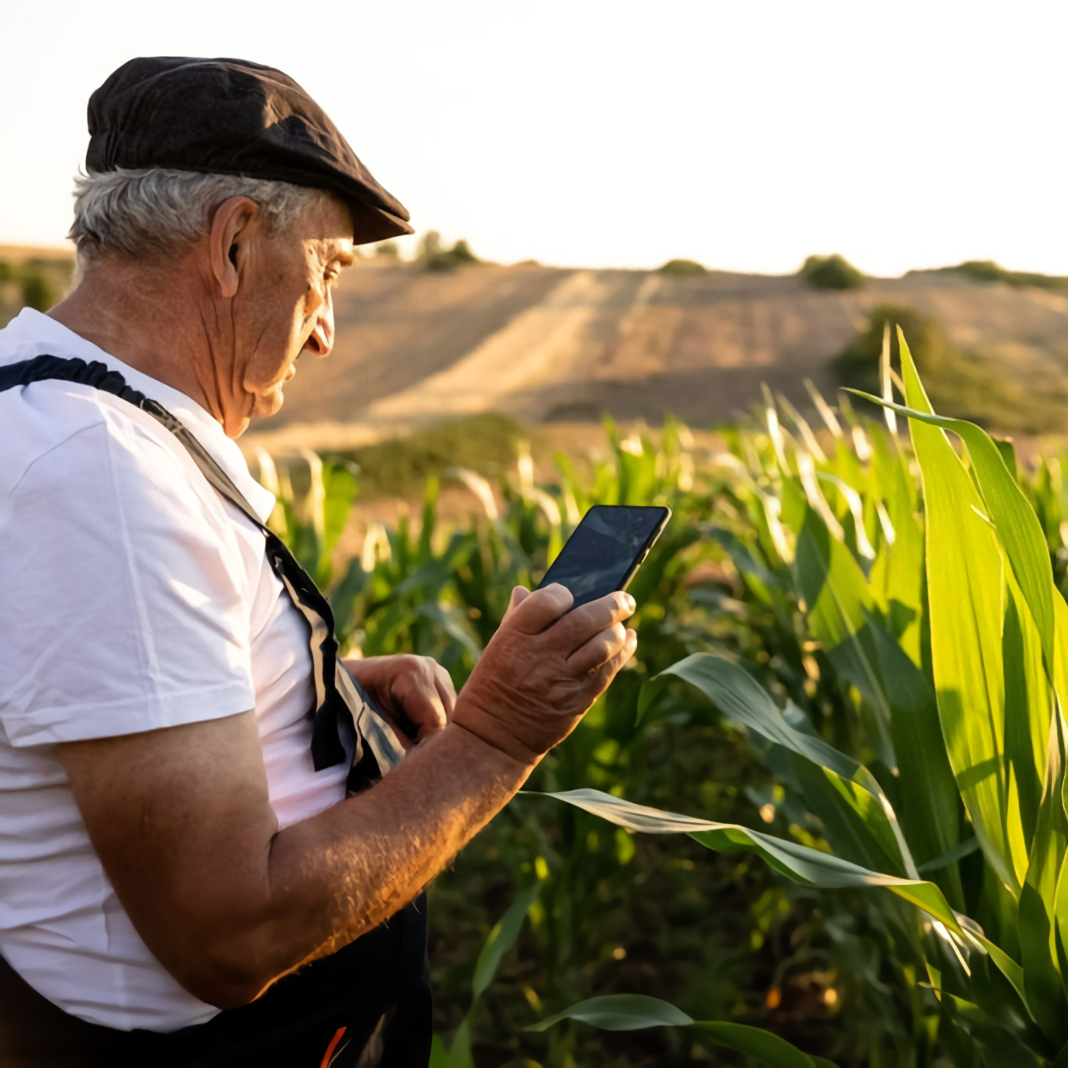
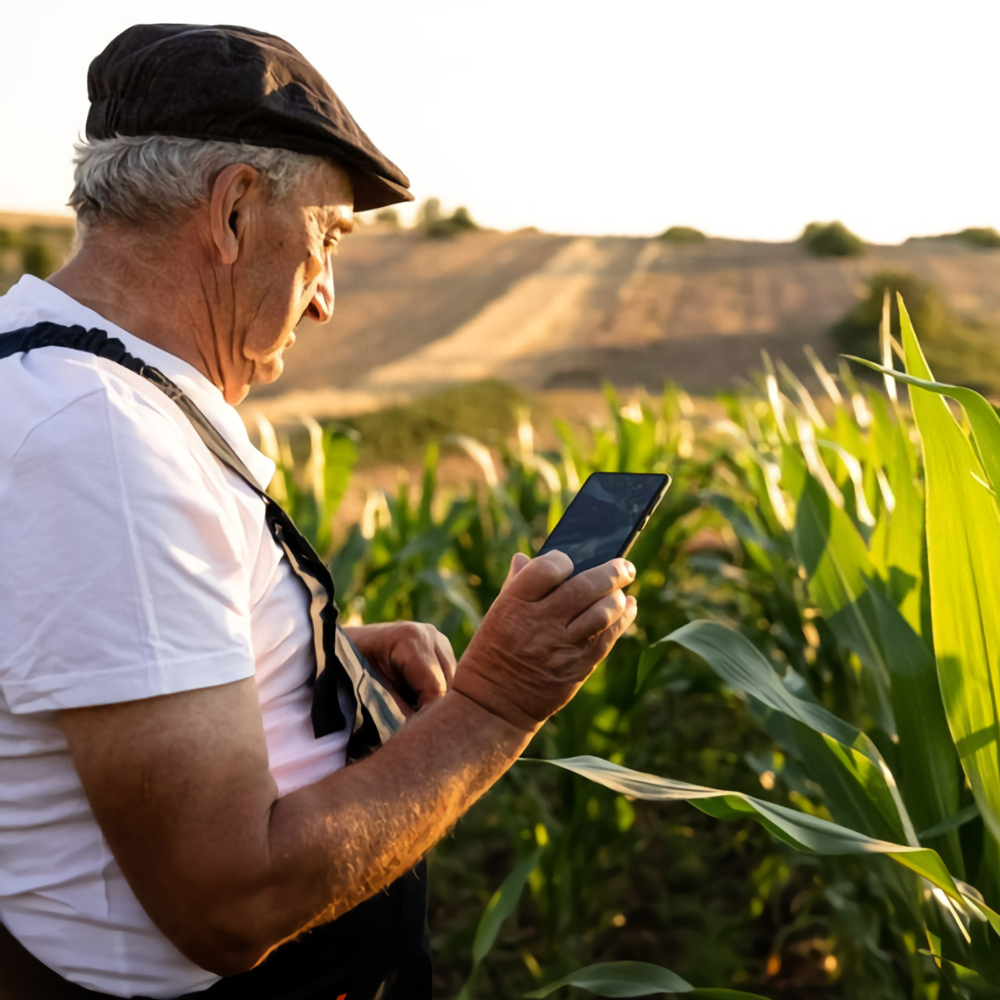
add and resize images, fix some components

diff --git a/index.html b/index.html
@@ -30,10 +30,10 @@
             <a class="nav-link active" aria-current="page" href="#home">Home</a>
           </li>
           <li class="nav-item">
-            <a class="nav-link" href="#">Mission</a>
+            <a class="nav-link" href="#mission">Mission</a>
           </li>
           <li class="nav-item dropdown">
-            <a class="nav-link dropdown-toggle" href="#" id="navbarDropdown" role="button" data-bs-toggle="dropdown" aria-expanded="false">
+            <a class="nav-link dropdown-toggle" href="#services" id="navbarDropdown" role="button" data-bs-toggle="dropdown" aria-expanded="false">
               Services
             </a>
             <ul class="dropdown-menu" aria-labelledby="navbarDropdown">
@@ -42,7 +42,7 @@
             </ul>
           </li>
           <li class="nav-item">
-            <a class="nav-link" href="#">Gallery</a>
+            <a class="nav-link" href="#gallery">Gallery</a>
           </li>
         </ul>
       </div>
@@ -57,7 +57,7 @@
         <div class="col-md-12">
           <div class="jumbotron-content text-white animatedFadeInUp fadeInUp">
             <h2 class="fw-bold">Lorem ipsum dolor sit amet.</h2>
-            <p>Lorem ipsum dolor sit amet consectetur adipisicing elit. Provident cum nisi impedit, est dignissimos voluptate nihil illo repellendus incidunt voluptates, quae optio nulla. Porro ad libero et, quia illum dolore perspiciatis inventore quo nam ducimus. Odio totam similique quidem voluptatum.</p>
+            <p>Lorem ipsum, dolor sit amet consectetur adipisicing elit. Incidunt atque voluptate, odio minus fugit modi at architecto unde totam nam, necessitatibus, corporis reiciendis. Omnis commodi, in laborum nemo ullam facilis?</p>
           </div>
         </div>
       </div>
@@ -84,7 +84,7 @@
         <div class="col-md-4">
           <div class="mission-info mx-auto text-left">
             <h4 class="fw-bold">Lorem ipsum dolor sit amet.</h4>
-            <p>Lorem ipsum, dolor sit amet consectetur adipisicing elit. Adipisci dicta id quaerat libero nemo iste illo tempore repellendus dolorem exercitationem animi rerum aliquam, numquam esse, velit debitis ab, amet dignissimos. Aut ab quam illo id quidem iusto perferendis, voluptates alias reprehenderit non commodi suscipit voluptate veniam deserunt corrupti libero provident eos facilis nobis magnam molestias consequatur! Sit cumque iusto repellendus nisi expedita quod quos quis ab. Praesentium error suscipit aliquam.</p>
+            <p>Lorem ipsum dolor sit amet consectetur adipisicing elit. Sapiente expedita quidem pariatur fuga, obcaecati nostrum! Minus repellendus error totam, recusandae sequi nostrum voluptates. Maiores fuga cumque reprehenderit odio quaerat deserunt tempore magnam quisquam voluptatibus. At doloremque ipsam repudiandae eos placeat quidem dolores mollitia corrupti nostrum soluta nemo illum, consequatur doloribus magni accusamus sapiente, nulla vitae voluptates eligendi! Dolorum aperiam veniam doloribus quasi voluptatem quaerat id alias, adipisci quas animi porro!</p>
           </div>
         </div>
       </div>
@@ -93,7 +93,7 @@
   <!-- Mission End -->
 
   <!-- Services Section Begin -->
-  <section class="services">
+  <section class="services" id="services">
     <div class="container">
       <div class="row">
         <div class="col-md-12">
@@ -104,19 +104,31 @@
       </div>
       <div class="row justify-content-center mt-6">
         <div class="col-md-4">
-          <div class="card">
-            <img src="img/recom.jpg" class="card-img-top" alt="...">
+          <div class="card bg-dark">
+            <img src="img/recom.jpg" class="card-img-top" alt="Farmer analyzes his land">
             <div class="card-body">
-              <p class="card-text">Some quick example text to build on the card title and make up the bulk of the card's content.</p>
+              <p class="card-text">Lorem ipsum dolor sit amet consectetur, adipisicing elit. Fugiat, placeat!</p>
             </div>
+            <a href="#">
+              <div class="card-info">
+                <h5 class="fw-bold">Crop Recommendation</h5>
+                <p class="card-text">Lorem ipsum dolor sit amet consectetur adipisicing elit. Laboriosam obcaecati culpa ratione accusantium incidunt beatae facere nihil molestias qui ea.</p>
+              </div>
+            </a>
           </div>
         </div>
         <div class="col-md-4">
-          <div class="card">
-            <img src="img/disease.jpg" class="card-img-top" alt="...">
+          <div class="card bg-dark">
+            <img src="img/disease.jpg" class="card-img-top" alt="Farmer using cell phone in cornfield">
             <div class="card-body">
-              <p class="card-text">Some quick example text to build on the card title and make up the bulk of the card's content.</p>
+              <p class="card-text">Lorem ipsum dolor, sit amet consectetur adipisicing elit. Veritatis, officia.</p>
             </div>
+            <a href="#">
+              <div class="card-info">
+                <h5 class="fw-bold">Crop Disease</h5>
+                <p class="card-text">Lorem ipsum dolor sit amet consectetur adipisicing elit. Porro, veniam libero? Minima error suscipit repellat eos quaerat, corporis iure quas.</p>
+              </div>
+            </a>
           </div>
         </div>
       </div>
@@ -125,7 +137,7 @@
   <!-- Services End -->
 
   <!-- Gallery Section Begin -->
-  <section class="gallery">
+  <section class="gallery" id="gallery">
     <div class="container">
       <div class="row">
         <div class="col-md-12">
@@ -145,7 +157,7 @@
         <div class="col-md-12">
           <div class="title text-center text-white">
             <h3 class="fw-bold">Lorem ipsum dolor sit amet.</h3>
-            <p class="fst-italic">"Lorem ipsum dolor sit, amet consectetur adipisicing elit. Impedit id omnis maxime dolor inventore laboriosam ducimus tempore error aut magnam magni possimus saepe exercitationem repellendus culpa ea cum molestiae ab quasi, vel fugit explicabo nemo adipisci. Dignissimos ratione error quam!."</p>
+            <p class="fst-italic">"Lorem ipsum dolor sit amet, consectetur adipisicing elit. Modi itaque porro aut sunt ex possimus maxime expedita ut hic fugit voluptate quis quidem error, tempora molestias quam. Quod laborum, vero quaerat at quae libero asperiores, consequatur deserunt debitis, sit dolorem!."</p>
           </div>
         </div>
       </div>

diff --git a/style.css b/style.css
@@ -13,14 +13,14 @@ p {
 /* Navbar Section */
 
 .navbar {
-  background-color: rgba(0, 0, 0, 0.5);
+  background-color: rgba(27, 25, 25, 0.8);
   backdrop-filter: blur(0.5rem);
 }
 
 .dropdown-menu {
   border: none;
   background-color: transparent;
-  background-color: rgba(0, 0, 0, 0.5);
+  background-color: rgba(27, 25, 25, 0.8);
   backdrop-filter: blur(0.5rem);
 }
 
@@ -75,8 +75,37 @@ p {
   background-color: rgb(97, 111, 57);
 }
 
+.card {
+  position: relative;
+  overflow: hidden;
+  box-shadow: 0 5px 15px rgb(27, 25, 25);
+}
+
 .card img {
   width: 100%;
+}
+
+.card-body {
+  color: rgb(255, 255, 255);
+  background-color: rgb(27, 25, 25);
+}
+
+.card-info {
+  color: rgb(255, 255, 255);
+  position: absolute;
+  left: 0;
+  right: 0;
+  bottom: 0;
+  height: 50%;
+  background-color: rgba(27, 25, 25, 0.2);
+  backdrop-filter: blur(1rem);
+  padding: 1rem;
+  transform: translateY(101%);
+  transition: transform 0.3s ease-in;
+}
+
+.card:hover .card-info {
+  transform: translateY(0);
 }
 
 /* About Section */
@@ -98,7 +127,7 @@ p {
 /* Footer Section */
 
 footer {
-  background-color: rgb(0, 0, 0);
+  background-color: rgb(27, 25, 25);
   height: 5rem;
   display: flex;
 }
@@ -146,7 +175,7 @@ footer .container {
     margin-top: 1.5rem;
   }
 
-  .services .card {
+  .card {
     margin-bottom: 1.5rem;
   }
 }
